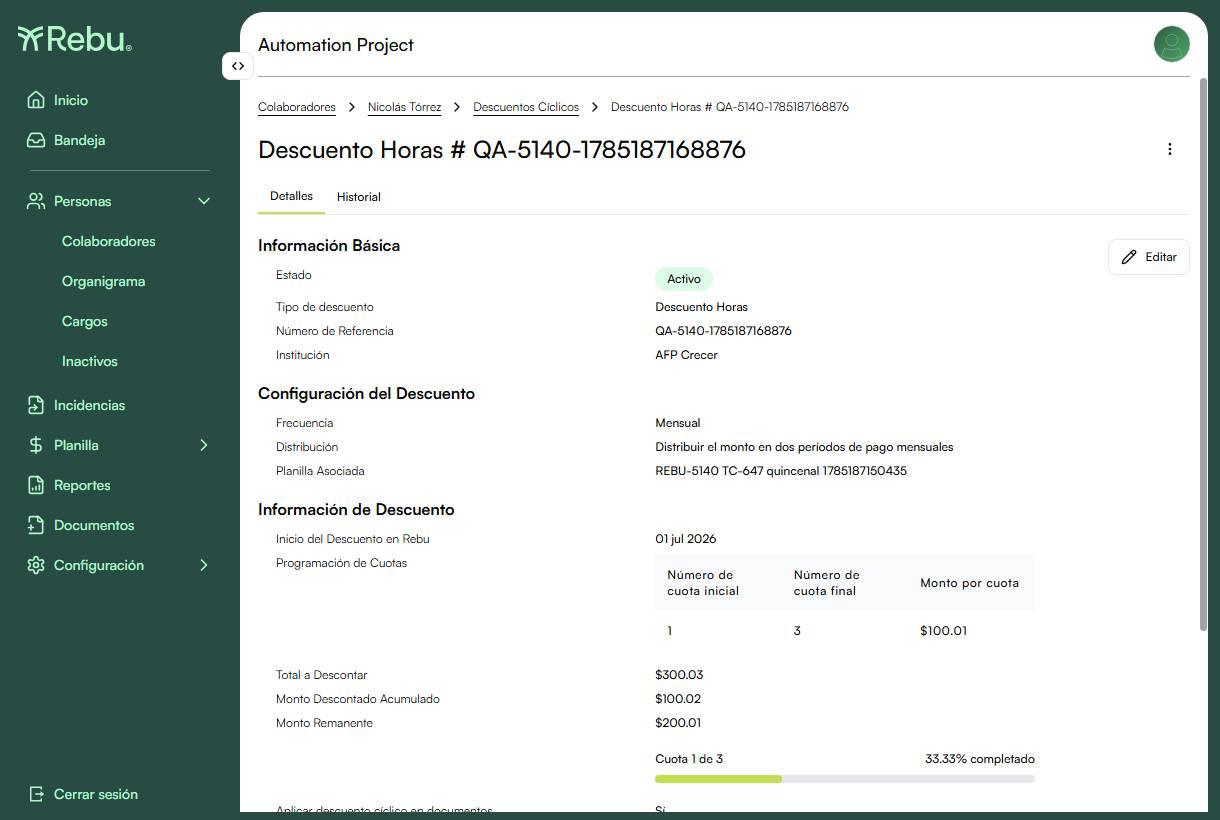
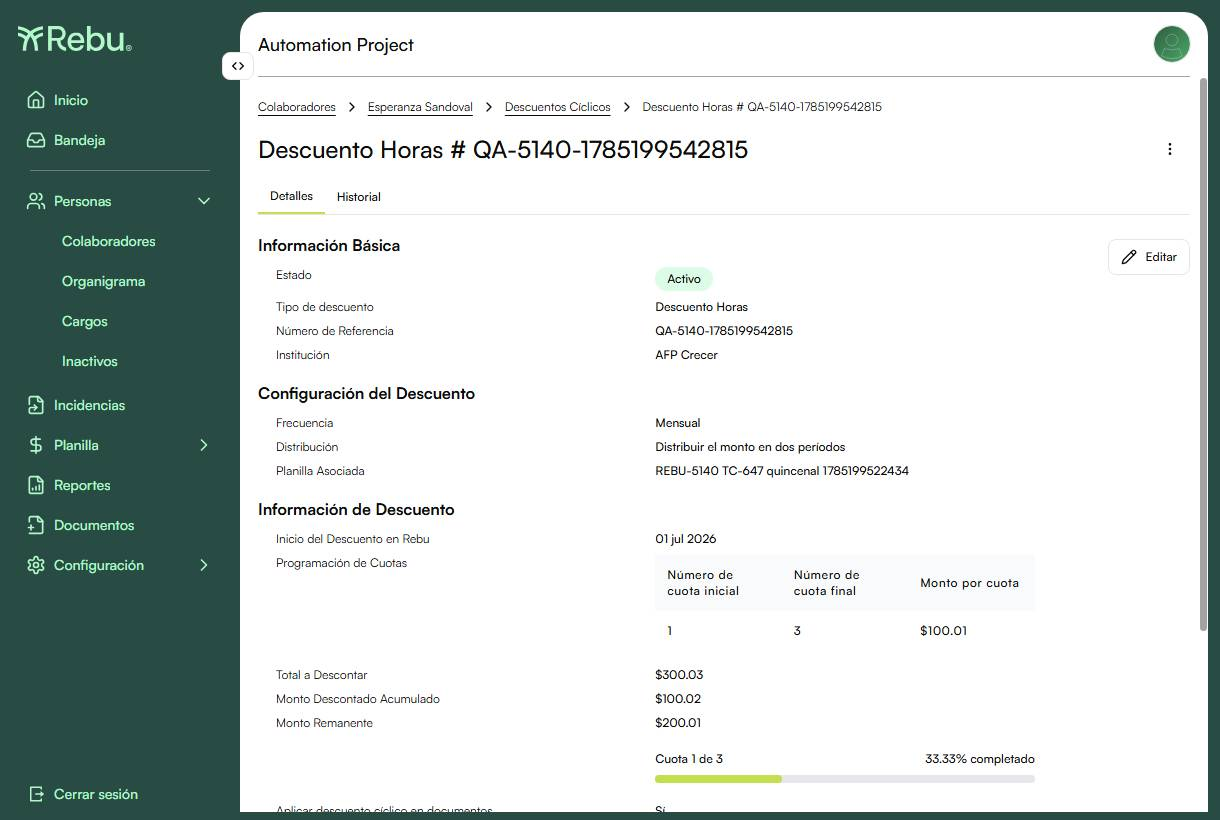
report(v15.4.0): REBU-5140 — corrida completa en UAT con evidencia de los 7 casos
Re-ejecutada la suite completa en UAT co.2 (7 passed / 1 failed, 4.6 min).
Entries nuevos: 1074 (642), 1075 (643), 1076 (644), 1077-1078 (645),
1079-1081 (646), 1082-1083 (647).

Ahora TODOS los casos llevan captura del perfil > Descuentos Ciclicos > tab
Historial, que es la vista donde el producto etiqueta las particiones (1A / 1B /
2) y registra en que planilla se cobro cada una. Antes solo 646, 647 y 652
tenian evidencia; 642-645 eran API puros.

TC-PLA-647 suma una segunda toma con el desglose por cuota ($50.01 en cada
quincena) junto a la del acumulado ($100.02), que juntas explican el redondeo.

Nuevo helper capturarEvidencia() en el spec, compartido por todos los casos.
La evidencia de 5140 se genera con EVIDENCE_ENV=uat-5140 para no pisar la de
REBU-5009, que comparte los IDs TC-PLA-644..648.

Changed region(s): [[0.3115, 0.122, 0.7164, 0.2134], [0.6852, 0.5183, 0.7787, 0.5793], [0.5918, 0.3963, 0.6541, 0.4268]]

diff --git a/index.html b/index.html
@@ -160,22 +160,22 @@
     <tbody>
 
 <tr class="test-row" onclick="toggleDetail(this)"><td class="test-id">TC-PLA-642<div style="font-size:9px;font-weight:600;opacity:.55;margin-top:2px">REBU-5140</div></td><td><div class="test-name">AC7 · Colaborador SIN planilla asociada: el cíclico "Distribuir" se guarda y aplica $50 al asociarle una quincenal</div><div class="test-tags"><span class="tag tag-val">@api</span><span class="tag tag-val">@planilla</span><span class="tag tag-reg">@regulatory</span></div></td><td class="status-cell"><span class="badge-pass">PASS</span></td></tr>
-<tr class="detail-row"><td colspan="3"><table class="case-steps"><tr><th>Precondiciones</th><td>Colaborador activo $1,000 <strong>sin</strong> Planilla Asociada; planilla quincenal creada sin iniciar; concepto "Descuento Horas" disponible.</td></tr><tr><th>Setup</th><td>1. <code>createCyclicDistributionScenario</code> con <code>initialFrequency: null</code> y <code>alternateFrequency: 'quincenal'</code> → crea la planilla, el colaborador sin asociar y da de alta el cíclico.</td></tr><tr><th>Pasos</th><td>1. Dar de alta el descuento cíclico de $100, cuotas 1–3, opción "Distribuir el monto en dos períodos" (<code>distributionType: 'Distributed'</code>). 2. Asociar el colaborador a la planilla quincenal (<code>PATCH person { payrollId }</code>). 3. Correr la Quincena 1 de julio. 4. Leer el monto del concepto en el detalle.</td></tr><tr><th>Resultado esperado</th><td>El alta responde <strong>2xx</strong> (no hay rechazo por falta de planilla) y, tras asociar la quincenal, Q1 descuenta <strong>$50</strong> (mitad A).</td></tr><tr><th>Resultado obtenido</th><td>Alta = <strong>200</strong>; entry 1021 descontó <strong>$50.00</strong>. ✅ Confirma que el guard de BE fue retirado (REBU-5177).</td></tr><tr><th>Planilla</th><td>🧾 entry <strong>1021</strong> · UAT co.2 · período 01/07/2026–15/07/2026</td></tr><tr><th>Status</th><td><span class="badge-pass">PASS</span></td></tr></table></td></tr>
+<tr class="detail-row"><td colspan="3"><table class="case-steps"><tr><th>Precondiciones</th><td>Colaborador activo $1,000 <strong>sin</strong> Planilla Asociada; planilla quincenal creada sin iniciar; concepto "Descuento Horas" disponible.</td></tr><tr><th>Setup</th><td>1. <code>createCyclicDistributionScenario</code> con <code>initialFrequency: null</code> y <code>alternateFrequency: 'quincenal'</code> → crea la planilla, el colaborador sin asociar y da de alta el cíclico.</td></tr><tr><th>Pasos</th><td>1. Dar de alta el descuento cíclico de $100, cuotas 1–3, opción "Distribuir el monto en dos períodos" (<code>distributionType: 'Distributed'</code>). 2. Asociar el colaborador a la planilla quincenal (<code>PATCH person { payrollId }</code>). 3. Correr la Quincena 1 de julio. 4. Leer el monto del concepto en el detalle.</td></tr><tr><th>Resultado esperado</th><td>El alta responde <strong>2xx</strong> (no hay rechazo por falta de planilla) y, tras asociar la quincenal, Q1 descuenta <strong>$50</strong> (mitad A).</td></tr><tr><th>Resultado obtenido</th><td>Alta = <strong>200</strong>; entry 1074 descontó <strong>$50.00</strong>. ✅ Confirma que el guard de BE fue retirado (REBU-5177).</td></tr><tr><th>Planilla</th><td>🧾 entry <strong>1074</strong> · UAT co.2 · período 01/07/2026–15/07/2026</td></tr><tr><th>Evidencia</th><td><div style="max-width:660px"><div style="font-size:10px;font-weight:700;color:#284b44;text-transform:uppercase;margin-bottom:6px">Perfil › Descuentos Cíclicos › tab Historial</div><img src="assets/v15.4.0/uat/5140/TC-PLA-642/01.jpg" style="max-width:100%;border-radius:6px;border:1px solid #d4e8d0;box-shadow:0 1px 4px rgba(0,0,0,.08)"/><div style="font-size:11px;color:#1e3a34;background:#f0f7ee;border-radius:4px;padding:8px 10px;margin-top:8px;line-height:1.5">Cuota <strong>1A · $50.00</strong> sobre la planilla quincenal que se asoció después de crear el cíclico. Queda en estado <em>Pendiente</em> porque este caso no finaliza la planilla.</div></div></td></tr><tr><th>Status</th><td><span class="badge-pass">PASS</span></td></tr></table></td></tr>
 
 <tr class="test-row" onclick="toggleDetail(this)"><td class="test-id">TC-PLA-643<div style="font-size:9px;font-weight:600;opacity:.55;margin-top:2px">REBU-5140</div></td><td><div class="test-name">AC2 / AC6 · "Distribuir" con planilla mensual: ya no es rechazado y cobra $100 completos</div><div class="test-tags"><span class="tag tag-val">@api</span><span class="tag tag-val">@planilla</span><span class="tag tag-reg">@regulatory</span></div></td><td class="status-cell"><span class="badge-pass">PASS</span></td></tr>
-<tr class="detail-row"><td colspan="3"><table class="case-steps"><tr><th>Precondiciones</th><td>Colaborador activo $1,000 asociado a una planilla <strong>mensual</strong> (<code>paymentPeriodId: 1</code>, "Último día del mes").</td></tr><tr><th>Setup</th><td>1. <code>createCyclicDistributionScenario</code> con <code>initialFrequency: 'mensual'</code> y cíclico <code>Distributed</code> de $100.</td></tr><tr><th>Pasos</th><td>1. Dar de alta el cíclico "Distribuir el monto en dos períodos" sobre la planilla mensual. 2. Correr la planilla mensual de julio (01→31). 3. Leer el monto del concepto.</td></tr><tr><th>Resultado esperado</th><td>El alta responde <strong>2xx</strong> (antes devolvía error de validación por el guard <code>DistributedNotAllowedForMonthlyPayroll</code>) y la corrida mensual descuenta <strong>$100</strong> (partición FULL, regla 2), no $50.</td></tr><tr><th>Resultado obtenido</th><td>Alta = <strong>200</strong>; entry 1035 descontó <strong>$100.00</strong>. ✅</td></tr><tr><th>Planilla</th><td>🧾 entry <strong>1035</strong> · UAT co.2 · período 01/07/2026–31/07/2026</td></tr><tr><th>Status</th><td><span class="badge-pass">PASS</span></td></tr></table></td></tr>
+<tr class="detail-row"><td colspan="3"><table class="case-steps"><tr><th>Precondiciones</th><td>Colaborador activo $1,000 asociado a una planilla <strong>mensual</strong> (<code>paymentPeriodId: 1</code>, "Último día del mes").</td></tr><tr><th>Setup</th><td>1. <code>createCyclicDistributionScenario</code> con <code>initialFrequency: 'mensual'</code> y cíclico <code>Distributed</code> de $100.</td></tr><tr><th>Pasos</th><td>1. Dar de alta el cíclico "Distribuir el monto en dos períodos" sobre la planilla mensual. 2. Correr la planilla mensual de julio (01→31). 3. Leer el monto del concepto.</td></tr><tr><th>Resultado esperado</th><td>El alta responde <strong>2xx</strong> (antes devolvía error de validación por el guard <code>DistributedNotAllowedForMonthlyPayroll</code>) y la corrida mensual descuenta <strong>$100</strong> (partición FULL, regla 2), no $50.</td></tr><tr><th>Resultado obtenido</th><td>Alta = <strong>200</strong>; entry 1075 descontó <strong>$100.00</strong>. ✅</td></tr><tr><th>Planilla</th><td>🧾 entry <strong>1075</strong> · UAT co.2 · período 01/07/2026–31/07/2026</td></tr><tr><th>Evidencia</th><td><div style="max-width:660px"><div style="font-size:10px;font-weight:700;color:#284b44;text-transform:uppercase;margin-bottom:6px">Perfil › Descuentos Cíclicos › tab Historial</div><img src="assets/v15.4.0/uat/5140/TC-PLA-643/01.jpg" style="max-width:100%;border-radius:6px;border:1px solid #d4e8d0;box-shadow:0 1px 4px rgba(0,0,0,.08)"/><div style="font-size:11px;color:#1e3a34;background:#f0f7ee;border-radius:4px;padding:8px 10px;margin-top:8px;line-height:1.5">Una sola cuota por <strong>$100.00</strong> sobre la planilla mensual: en mensual la partición es FULL, no se divide.</div></div></td></tr><tr><th>Status</th><td><span class="badge-pass">PASS</span></td></tr></table></td></tr>
 
 <tr class="test-row" onclick="toggleDetail(this)"><td class="test-id">TC-PLA-644<div style="font-size:9px;font-weight:600;opacity:.55;margin-top:2px">REBU-5140</div></td><td><div class="test-name">AC5 / regla 4 · <code>Single</code> en "Período 2" con planilla mensual se redirige a Período 1 y cobra $100</div><div class="test-tags"><span class="tag tag-val">@api</span><span class="tag tag-val">@planilla</span><span class="tag tag-edge">@edge-case</span></div></td><td class="status-cell"><span class="badge-pass">PASS</span></td></tr>
-<tr class="detail-row"><td colspan="3"><table class="case-steps"><tr><th>Precondiciones</th><td>Colaborador activo $1,000 asociado a planilla mensual.</td></tr><tr><th>Setup</th><td>1. <code>createCyclicDistributionScenario</code> con <code>initialFrequency: 'mensual'</code>, <code>distributionType: 'Single'</code> y <code>singlePeriodPreference: 2</code>.</td></tr><tr><th>Pasos</th><td>1. Dar de alta el cíclico con "Descontar el monto total en un solo período" + "Período 2 (si aplica)". 2. Correr la planilla mensual. 3. Leer el monto del concepto.</td></tr><tr><th>Resultado esperado</th><td>El descuento <strong>se ejecuta</strong> en la única corrida mensual (redirigido a Período 1) por <strong>$100</strong>. El riesgo del escenario es que no se ejecute nunca, al no existir un Período 2 en mensual.</td></tr><tr><th>Resultado obtenido</th><td>entry 1036 descontó <strong>$100.00</strong>. ✅ La redirección P2 → P1 funciona.</td></tr><tr><th>Planilla</th><td>🧾 entry <strong>1036</strong> · UAT co.2 · período 01/07/2026–31/07/2026</td></tr><tr><th>Status</th><td><span class="badge-pass">PASS</span></td></tr></table></td></tr>
+<tr class="detail-row"><td colspan="3"><table class="case-steps"><tr><th>Precondiciones</th><td>Colaborador activo $1,000 asociado a planilla mensual.</td></tr><tr><th>Setup</th><td>1. <code>createCyclicDistributionScenario</code> con <code>initialFrequency: 'mensual'</code>, <code>distributionType: 'Single'</code> y <code>singlePeriodPreference: 2</code>.</td></tr><tr><th>Pasos</th><td>1. Dar de alta el cíclico con "Descontar el monto total en un solo período" + "Período 2 (si aplica)". 2. Correr la planilla mensual. 3. Leer el monto del concepto.</td></tr><tr><th>Resultado esperado</th><td>El descuento <strong>se ejecuta</strong> en la única corrida mensual (redirigido a Período 1) por <strong>$100</strong>. El riesgo del escenario es que no se ejecute nunca, al no existir un Período 2 en mensual.</td></tr><tr><th>Resultado obtenido</th><td>entry 1076 descontó <strong>$100.00</strong>. ✅ La redirección P2 → P1 funciona.</td></tr><tr><th>Planilla</th><td>🧾 entry <strong>1076</strong> · UAT co.2 · período 01/07/2026–31/07/2026</td></tr><tr><th>Evidencia</th><td><div style="max-width:660px"><div style="font-size:10px;font-weight:700;color:#284b44;text-transform:uppercase;margin-bottom:6px">Perfil › Descuentos Cíclicos › tab Historial</div><img src="assets/v15.4.0/uat/5140/TC-PLA-644/01.jpg" style="max-width:100%;border-radius:6px;border:1px solid #d4e8d0;box-shadow:0 1px 4px rgba(0,0,0,.08)"/><div style="font-size:11px;color:#1e3a34;background:#f0f7ee;border-radius:4px;padding:8px 10px;margin-top:8px;line-height:1.5">El cíclico estaba configurado en <strong>"Período 2 (si aplica)"</strong>, que no existe en una planilla mensual. Aun así se cobró <strong>$100.00</strong>: el motor lo redirigió al Período 1 en vez de dejarlo sin ejecutar.</div></div></td></tr><tr><th>Status</th><td><span class="badge-pass">PASS</span></td></tr></table></td></tr>
 
 <tr class="test-row" onclick="toggleDetail(this)"><td class="test-id">TC-PLA-645<div style="font-size:9px;font-weight:600;opacity:.55;margin-top:2px">REBU-5140</div></td><td><div class="test-name">Regresión · "Distribuir" en quincenal sigue dando $50 en Q1 y $50 en Q2</div><div class="test-tags"><span class="tag tag-val">@api</span><span class="tag tag-val">@planilla</span><span class="tag tag-reg">@regression</span></div></td><td class="status-cell"><span class="badge-pass">PASS</span></td></tr>
-<tr class="detail-row"><td colspan="3"><table class="case-steps"><tr><th>Precondiciones</th><td>Colaborador activo $1,000 asociado a una planilla quincenal.</td></tr><tr><th>Setup</th><td>1. <code>createCyclicDistributionScenario</code> con <code>initialFrequency: 'quincenal'</code> y cíclico <code>Distributed</code> de $100, cuotas 1–3.</td></tr><tr><th>Pasos</th><td>1. Correr la Quincena 1 de julio (01→15) y leer el monto. 2. Correr la Quincena 2 (16→31) y leer el monto.</td></tr><tr><th>Resultado esperado</th><td>Q1 descuenta <strong>$50</strong> (partición A) y Q2 descuenta <strong>$50</strong> (partición B); total del mes = $100, sin duplicar ni omitir cuota.</td></tr><tr><th>Resultado obtenido</th><td>entry 1037 = <strong>$50.00</strong>, entry 1038 = <strong>$50.00</strong>, total $100.00. ✅ El refactor del motor no rompió el camino que ya funcionaba.</td></tr><tr><th>Planilla</th><td>🧾 entries <strong>1037</strong> y <strong>1038</strong> · UAT co.2 · julio 2026</td></tr><tr><th>Status</th><td><span class="badge-pass">PASS</span></td></tr></table></td></tr>
+<tr class="detail-row"><td colspan="3"><table class="case-steps"><tr><th>Precondiciones</th><td>Colaborador activo $1,000 asociado a una planilla quincenal.</td></tr><tr><th>Setup</th><td>1. <code>createCyclicDistributionScenario</code> con <code>initialFrequency: 'quincenal'</code> y cíclico <code>Distributed</code> de $100, cuotas 1–3.</td></tr><tr><th>Pasos</th><td>1. Correr la Quincena 1 de julio (01→15) y leer el monto. 2. Correr la Quincena 2 (16→31) y leer el monto.</td></tr><tr><th>Resultado esperado</th><td>Q1 descuenta <strong>$50</strong> (partición A) y Q2 descuenta <strong>$50</strong> (partición B); total del mes = $100, sin duplicar ni omitir cuota.</td></tr><tr><th>Resultado obtenido</th><td>entry 1077 = <strong>$50.00</strong>, entry 1078 = <strong>$50.00</strong>, total $100.00. ✅ El refactor del motor no rompió el camino que ya funcionaba.</td></tr><tr><th>Planilla</th><td>🧾 entries <strong>1077</strong> y <strong>1078</strong> · UAT co.2 · julio 2026</td></tr><tr><th>Evidencia</th><td><div style="max-width:660px"><div style="font-size:10px;font-weight:700;color:#284b44;text-transform:uppercase;margin-bottom:6px">Perfil › Descuentos Cíclicos › tab Historial</div><img src="assets/v15.4.0/uat/5140/TC-PLA-645/01.jpg" style="max-width:100%;border-radius:6px;border:1px solid #d4e8d0;box-shadow:0 1px 4px rgba(0,0,0,.08)"/><div style="font-size:11px;color:#1e3a34;background:#f0f7ee;border-radius:4px;padding:8px 10px;margin-top:8px;line-height:1.5">Las dos particiones del mismo mes sobre la planilla quincenal: <strong>1A $50.00</strong> y <strong>1B $50.00</strong>, acumulado $100.00.</div></div></td></tr><tr><th>Status</th><td><span class="badge-pass">PASS</span></td></tr></table></td></tr>
 
 <tr class="test-row" onclick="toggleDetail(this)"><td class="test-id">TC-PLA-646<div style="font-size:9px;font-weight:600;opacity:.55;margin-top:2px">REBU-5140</div></td><td><div class="test-name">Regla 1 / AC6 · Quincenal → mensual con media cuota abierta: la primera mensual cobra solo los $50 pendientes</div><div class="test-tags"><span class="tag tag-val">@api-ui</span><span class="tag tag-val">@planilla</span><span class="tag tag-edge">@edge-case</span></div></td><td class="status-cell"><span class="badge-pass">PASS</span></td></tr>
-<tr class="detail-row"><td colspan="3"><table class="case-steps"><tr><th>Precondiciones</th><td>Colaborador $1,000 en planilla quincenal con Q1 corrida y <strong>finalizada</strong> ($50 = partición 1A consolidada); una planilla mensual disponible para reasociarlo.</td></tr><tr><th>Setup</th><td>1. <code>createCyclicDistributionScenario</code> con <code>initialFrequency: 'quincenal'</code> y <code>alternateFrequency: 'mensual'</code>, cíclico <code>Distributed</code> de $100, cuotas 1–3.</td></tr><tr><th>Pasos</th><td>1. Correr Q1 julio en la quincenal y <strong>finalizarla</strong> (4 <code>changeStep</code>) → consolida la partición 1A. 2. Cambiar la Planilla Asociada a la mensual desde datos de contratación (<code>PATCH person { payrollId }</code>). 3. Correr y finalizar la primera mensual. 4. Correr y finalizar la segunda mensual.</td></tr><tr><th>Resultado esperado</th><td>La primera mensual descuenta <strong>$50</strong> (cierra la partición 1B pendiente, regla 1 de REBU-5176). La segunda, sin pendiente, descuenta <strong>$100</strong> (cuota nueva FULL, regla 2).</td></tr><tr><th>Resultado obtenido</th><td>✅ Q1 quincenal <strong>$50.00</strong> → mensual #1 <strong>$50.00</strong> → mensual #2 <strong>$100.00</strong>. El motor cierra la media cuota antes de abrir una nueva, exactamente como especifica la regla 1.<br><br>⚠ <strong>Requiere finalizar la planilla.</strong> Con un solo <code>changeStep</code> el concepto ya se ve en el detalle pero la cuota <em>no</em> se consolida, y la corrida siguiente abre cuota nueva FULL — eso produjo un falso positivo que se reportó y luego se cerró (REBU-5272).</td></tr><tr><th>Planilla</th><td>🧾 entries <strong>1062</strong> (Q1 quincenal) · <strong>1063</strong> (mensual #1) · <strong>1064</strong> (mensual #2) · UAT co.2</td></tr><tr><th>Evidencia</th><td><div style="padding:4px 0"><div style="font-size:10px;font-weight:700;color:#284b44;text-transform:uppercase;margin-bottom:6px">01 — Perfil › Descuentos Cíclicos › registro › tab <strong>Historial</strong></div><img src="assets/v15.4.0/uat/5140/TC-PLA-646/01.jpg" style="max-width:100%;border-radius:6px;border:1px solid #d4e8d0;box-shadow:0 1px 4px rgba(0,0,0,.08)"/><div style="font-size:11px;color:#1e3a34;background:#f0f7ee;border-radius:4px;padding:10px 12px;margin-top:8px;line-height:1.7">El "Historial de Aplicación en Planilla" etiqueta las particiones con nombre propio y registra en qué planilla se cobró cada una:<br><br><table style="border-collapse:collapse;font-size:11px"><tr style="font-weight:700"><td style="padding:2px 14px 2px 0">No.</td><td style="padding:2px 14px 2px 0">Fecha</td><td style="padding:2px 14px 2px 0">Descontado</td><td style="padding:2px 14px 2px 0">Acumulado</td><td style="padding:2px 0">Planilla</td></tr><tr><td style="padding:2px 14px 2px 0"><strong>1A</strong></td><td style="padding:2px 14px 2px 0">15 jul 2026</td><td style="padding:2px 14px 2px 0">$50.00</td><td style="padding:2px 14px 2px 0">$50.00</td><td style="padding:2px 0">quincenal</td></tr><tr><td style="padding:2px 14px 2px 0"><strong>1B</strong></td><td style="padding:2px 14px 2px 0">31 ago 2026</td><td style="padding:2px 14px 2px 0">$50.00</td><td style="padding:2px 14px 2px 0">$100.00</td><td style="padding:2px 0">mensual</td></tr><tr><td style="padding:2px 14px 2px 0"><strong>2</strong></td><td style="padding:2px 14px 2px 0">30 sep 2026</td><td style="padding:2px 14px 2px 0">$100.00</td><td style="padding:2px 14px 2px 0">$200.00</td><td style="padding:2px 0">mensual</td></tr></table><br>La cuota 1 se abre en la quincenal con la partición <strong>1A</strong> y se cierra ya en la mensual con <strong>1B</strong> — la regla 1 en acción. Recién entonces la cuota <strong>2</strong> se cobra completa.</div></div><div style="margin-top:14px"><div style="font-size:10px;font-weight:700;color:#284b44;text-transform:uppercase;margin-bottom:6px">02 — Tab Detalles al cierre · Cuota 2 de 3 · 66.67%</div><img src="assets/v15.4.0/uat/5140/TC-PLA-646/02.jpg" style="max-width:100%;border-radius:6px;border:1px solid #d4e8d0;box-shadow:0 1px 4px rgba(0,0,0,.08)"/></div></td></tr><tr><th>Status</th><td><span class="badge-pass">PASS</span></td></tr></table></td></tr>
+<tr class="detail-row"><td colspan="3"><table class="case-steps"><tr><th>Precondiciones</th><td>Colaborador $1,000 en planilla quincenal con Q1 corrida y <strong>finalizada</strong> ($50 = partición 1A consolidada); una planilla mensual disponible para reasociarlo.</td></tr><tr><th>Setup</th><td>1. <code>createCyclicDistributionScenario</code> con <code>initialFrequency: 'quincenal'</code> y <code>alternateFrequency: 'mensual'</code>, cíclico <code>Distributed</code> de $100, cuotas 1–3.</td></tr><tr><th>Pasos</th><td>1. Correr Q1 julio en la quincenal y <strong>finalizarla</strong> (4 <code>changeStep</code>) → consolida la partición 1A. 2. Cambiar la Planilla Asociada a la mensual desde datos de contratación (<code>PATCH person { payrollId }</code>). 3. Correr y finalizar la primera mensual. 4. Correr y finalizar la segunda mensual.</td></tr><tr><th>Resultado esperado</th><td>La primera mensual descuenta <strong>$50</strong> (cierra la partición 1B pendiente, regla 1 de REBU-5176). La segunda, sin pendiente, descuenta <strong>$100</strong> (cuota nueva FULL, regla 2).</td></tr><tr><th>Resultado obtenido</th><td>✅ Q1 quincenal <strong>$50.00</strong> → mensual #1 <strong>$50.00</strong> → mensual #2 <strong>$100.00</strong>. El motor cierra la media cuota antes de abrir una nueva, exactamente como especifica la regla 1.<br><br>⚠ <strong>Requiere finalizar la planilla.</strong> Con un solo <code>changeStep</code> el concepto ya se ve en el detalle pero la cuota <em>no</em> se consolida, y la corrida siguiente abre cuota nueva FULL — eso produjo un falso positivo que se reportó y luego se cerró (REBU-5272).</td></tr><tr><th>Planilla</th><td>🧾 entries <strong>1079</strong> (Q1 quincenal) · <strong>1080</strong> (mensual #1) · <strong>1081</strong> (mensual #2) · UAT co.2</td></tr><tr><th>Evidencia</th><td><div style="padding:4px 0"><div style="font-size:10px;font-weight:700;color:#284b44;text-transform:uppercase;margin-bottom:6px">Perfil › Descuentos Cíclicos › registro › tab <strong>Historial</strong></div><img src="assets/v15.4.0/uat/5140/TC-PLA-646/01.jpg" style="max-width:100%;border-radius:6px;border:1px solid #d4e8d0;box-shadow:0 1px 4px rgba(0,0,0,.08)"/><div style="font-size:11px;color:#1e3a34;background:#f0f7ee;border-radius:4px;padding:10px 12px;margin-top:8px;line-height:1.7">El "Historial de Aplicación en Planilla" etiqueta las particiones con nombre propio y registra en qué planilla se cobró cada una:<br><br><table style="border-collapse:collapse;font-size:11px"><tr style="font-weight:700"><td style="padding:2px 14px 2px 0">No.</td><td style="padding:2px 14px 2px 0">Descontado</td><td style="padding:2px 14px 2px 0">Acumulado</td><td style="padding:2px 0">Planilla</td></tr><tr><td style="padding:2px 14px 2px 0"><strong>1A</strong></td><td style="padding:2px 14px 2px 0">$50.00</td><td style="padding:2px 14px 2px 0">$50.00</td><td style="padding:2px 0">quincenal</td></tr><tr><td style="padding:2px 14px 2px 0"><strong>1B</strong></td><td style="padding:2px 14px 2px 0">$50.00</td><td style="padding:2px 14px 2px 0">$100.00</td><td style="padding:2px 0">mensual</td></tr><tr><td style="padding:2px 14px 2px 0"><strong>2</strong></td><td style="padding:2px 14px 2px 0">$100.00</td><td style="padding:2px 14px 2px 0">$200.00</td><td style="padding:2px 0">mensual</td></tr></table><br>La cuota 1 se abre en la quincenal con la partición <strong>1A</strong> y se cierra ya en la mensual con <strong>1B</strong> — la regla 1 en acción. Recién entonces la cuota <strong>2</strong> se cobra completa.</div></div></td></tr><tr><th>Status</th><td><span class="badge-pass">PASS</span></td></tr></table></td></tr>
 
 <tr class="test-row" onclick="toggleDetail(this)"><td class="test-id">TC-PLA-647<div style="font-size:9px;font-weight:600;opacity:.55;margin-top:2px">REBU-5140</div></td><td><div class="test-name">Edge de centavos · "Distribuir" de $100.01 en quincenal debe repartirse sin perder ni inventar centavos</div><div class="test-tags"><span class="tag tag-val">@api</span><span class="tag tag-val">@planilla</span><span class="tag tag-edge">@edge-case</span></div></td><td class="status-cell"><span class="badge-fail">FAIL</span></td></tr>
-<tr class="detail-row"><td colspan="3"><table class="case-steps"><tr><th>Precondiciones</th><td>Colaborador $1,000 en planilla quincenal.</td></tr><tr><th>Setup</th><td>1. Igual que TC-PLA-645, pero el cíclico se da de alta con <code>monthlyAmount: 100.01</code>.</td></tr><tr><th>Pasos</th><td>1. Correr Quincena 1 y registrar el monto aplicado. 2. Correr Quincena 2 y registrar el monto aplicado. 3. Verificar la suma y la cantidad de decimales de cada período.</td></tr><tr><th>Resultado esperado</th><td>La suma de ambos períodos es exactamente <strong>$100.01</strong> y ningún período muestra más de 2 decimales ni residuo de coma flotante.</td></tr><tr><th>Resultado obtenido</th><td>🔴 La suma en base de datos <strong>sí</strong> cierra en $100.01, pero cada período persiste <strong>$50.005</strong> — tres decimales — y el "Monto Descontado Acumulado" del perfil muestra <strong>$100.02</strong>. Con centavos pares el acumulado cierra exacto ($50 → $100 → $200, ver TC-PLA-646), así que el disparador es el residuo impar.</td></tr><tr><th>Seguimiento</th><td>📌 <a href="https://rebu.atlassian.net/browse/REBU-5273" target="_blank"><strong>REBU-5273</strong></a> · <em>MEJORA — Definir y aplicar criterio de redondeo a centavos en la distribución 50/50</em>. No se tipifica como defecto: ni REBU-5140 ni REBU-5176 definen cómo repartir un monto impar entre dos períodos, así que primero hay que fijar la regla de negocio. El caso queda en <strong>FAIL</strong> hasta que se implemente; entonces se re-ejecuta y se actualiza este reporte.</td></tr><tr><th>Planilla</th><td>🧾 entries <strong>1065</strong> y <strong>1066</strong> · UAT co.2 · julio 2026</td></tr><tr><th>Evidencia</th><td><div style="max-width:640px"><div style="font-size:10px;font-weight:700;color:#284b44;text-transform:uppercase;margin-bottom:6px">01 — Acumulado del cíclico de $100.01 tras las dos quincenas</div><img src="assets/v15.4.0/uat/5140/TC-PLA-647/01.jpg" style="max-width:100%;border-radius:6px;border:1px solid #d4e8d0;box-shadow:0 1px 4px rgba(0,0,0,.08)"/><div style="font-size:11px;color:#5c4a1a;background:#fdf6e3;border-radius:4px;padding:8px 10px;margin-top:8px;line-height:1.5">El perfil reporta <strong>"Monto Descontado Acumulado: $100.02"</strong> para un descuento configurado en $100.01.</div></div></td></tr><tr><th>Status</th><td><span class="badge-fail">FAIL</span></td></tr></table></td></tr>
+<tr class="detail-row"><td colspan="3"><table class="case-steps"><tr><th>Precondiciones</th><td>Colaborador $1,000 en planilla quincenal.</td></tr><tr><th>Setup</th><td>1. Igual que TC-PLA-645, pero el cíclico se da de alta con <code>monthlyAmount: 100.01</code>.</td></tr><tr><th>Pasos</th><td>1. Correr Quincena 1 y registrar el monto aplicado. 2. Correr Quincena 2 y registrar el monto aplicado. 3. Verificar la suma y la cantidad de decimales de cada período.</td></tr><tr><th>Resultado esperado</th><td>La suma de ambos períodos es exactamente <strong>$100.01</strong> y ningún período muestra más de 2 decimales ni residuo de coma flotante.</td></tr><tr><th>Resultado obtenido</th><td>🔴 La suma en base de datos <strong>sí</strong> cierra en $100.01, pero cada período persiste <strong>$50.005</strong> — tres decimales — y el "Monto Descontado Acumulado" del perfil muestra <strong>$100.02</strong>. Con centavos pares el acumulado cierra exacto ($50 → $100 → $200, ver TC-PLA-646), así que el disparador es el residuo impar.</td></tr><tr><th>Seguimiento</th><td>📌 <a href="https://rebu.atlassian.net/browse/REBU-5273" target="_blank"><strong>REBU-5273</strong></a> · <em>MEJORA — Definir y aplicar criterio de redondeo a centavos en la distribución 50/50</em>. No se tipifica como defecto: ni REBU-5140 ni REBU-5176 definen cómo repartir un monto impar entre dos períodos, así que primero hay que fijar la regla de negocio. El caso queda en <strong>FAIL</strong> hasta que se implemente; entonces se re-ejecuta y se actualiza este reporte.</td></tr><tr><th>Planilla</th><td>🧾 entries <strong>1082</strong> y <strong>1083</strong> · UAT co.2 · julio 2026</td></tr><tr><th>Evidencia</th><td><div style="padding:4px 0"><div style="font-size:10px;font-weight:700;color:#284b44;text-transform:uppercase;margin-bottom:6px">01 — Tab Detalles · acumulado tras las dos quincenas</div><img src="assets/v15.4.0/uat/5140/TC-PLA-647/01.jpg" style="max-width:100%;border-radius:6px;border:1px solid #d4e8d0;box-shadow:0 1px 4px rgba(0,0,0,.08)"/><div style="font-size:11px;color:#5c4a1a;background:#fdf6e3;border-radius:4px;padding:8px 10px;margin-top:8px;line-height:1.5">El perfil reporta <strong>"Monto Descontado Acumulado: $100.02"</strong> para un descuento configurado en <strong>$100.01</strong>.</div></div><div style="margin-top:14px"><div style="font-size:10px;font-weight:700;color:#284b44;text-transform:uppercase;margin-bottom:6px">02 — Tab Historial · desglose por cuota</div><img src="assets/v15.4.0/uat/5140/TC-PLA-647/02.jpg" style="max-width:100%;border-radius:6px;border:1px solid #d4e8d0;box-shadow:0 1px 4px rgba(0,0,0,.08)"/><div style="font-size:11px;color:#5c4a1a;background:#fdf6e3;border-radius:4px;padding:8px 10px;margin-top:8px;line-height:1.5">Cada partición se muestra como <strong>$50.01</strong> — el valor almacenado es $50.005 y la vista lo redondea antes de sumar, de ahí el centavo de más en el acumulado.</div></div></td></tr><tr><th>Status</th><td><span class="badge-fail">FAIL</span></td></tr></table></td></tr>
 
 <tr class="test-row" onclick="toggleDetail(this)"><td class="test-id">TC-PLA-652<div style="font-size:9px;font-weight:600;opacity:.55;margin-top:2px">REBU-5140</div></td><td><div class="test-name">REBU-5271 · El modal de "un solo período" debe mostrar el selector de Período y NO exigir "Planilla"</div><div class="test-tags"><span class="tag tag-val">@ui</span><span class="tag tag-val">@planilla</span><span class="tag tag-edge">@validacion</span></div></td><td class="status-cell"><span class="badge-known">BUG CONOCIDO</span></td></tr>
 <tr class="detail-row"><td colspan="3"><table class="case-steps"><tr><th>Precondiciones</th><td>Colaborador activo $1,000 <strong>sin</strong> Planilla Asociada; concepto de descuento cíclico disponible.</td></tr><tr><th>Setup</th><td>1. <code>createCyclicDistributionScenario</code> con <code>initialFrequency: null</code> y <strong>sin</strong> bloque <code>cyclic</code> — el descuento se da de alta por UI, que es donde vive el bug.</td></tr><tr><th>Pasos</th><td>1. Abrir el perfil del colaborador › tab Cíclicos › Descuentos cíclicos › "Agregar Registro". 2. Seleccionar el Tipo de descuento (el modal nace con ese único campo; el resto del formulario solo se monta después). 3. Marcar "Descontar el monto total en un solo período". 4. Leer el estado del modal.</td></tr><tr><th>Resultado esperado</th><td>Aparece el selector "Período 1 / Período 2 (si aplica)"; no hay campo "Planilla" obligatorio; el label de la segunda opción no dice "de pago mensuales"; se muestra la leyenda "Distribución automática…".</td></tr><tr><th>Resultado obtenido</th><td>🟡 Los <strong>cuatro</strong> ACs incumplidos, tal como describe el defecto: <code>{ muestraCampoPlanilla: true, muestraSelectorPeriodo: false, labelDistribuirConSufijoViejo: true, muestraLeyendaDistribucionAutomatica: false }</code>. El BE ya liberó la restricción (verificado por TC-PLA-642), así que el defecto es de una sola capa.</td></tr><tr><th>Defecto</th><td>🐞 <a href="https://rebu.atlassian.net/browse/REBU-5271" target="_blank"><strong>REBU-5271</strong></a> · <em>[BUG FE] "Planilla" sigue obligatoria en "un solo período"</em> · Prioridad Highest, bloqueante. El test nace con <code>test.fail()</code>: hoy es rojo esperado y se pondrá verde cuando FE corrija — momento de quitarle el <code>test.fail</code>.</td></tr><tr><th>Evidencia</th><td><div style="max-width:640px"><div style="font-size:10px;font-weight:700;color:#284b44;text-transform:uppercase;margin-bottom:6px">01 — Modal de cíclicos con "un solo período" seleccionado</div><img src="assets/v15.4.0/uat/5140/TC-PLA-652/01.jpg" style="max-width:100%;border-radius:6px;border:1px solid #d4e8d0;box-shadow:0 1px 4px rgba(0,0,0,.08)"/><div style="font-size:11px;color:#5c4a1a;background:#fdf6e3;border-radius:4px;padding:8px 10px;margin-top:8px;line-height:1.5">Se ve el campo <strong>"Planilla"</strong> desplegado bajo los radios (debería ser el selector de Período), el label viejo <em>"Distribuir el monto en dos periodos de pago mensuales"</em> y la leyenda anterior <em>"Útil para empresas que pagan quincenalmente o catorcenalmente"</em>.</div></div></td></tr><tr><th>Status</th><td><span class="badge-known">BUG CONOCIDO</span></td></tr></table></td></tr>
